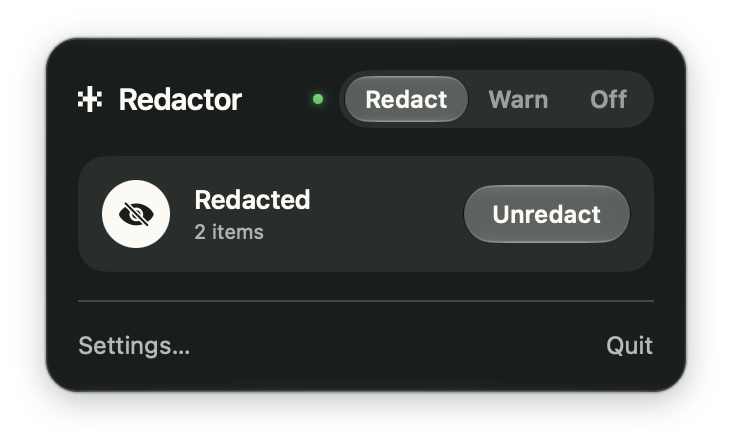
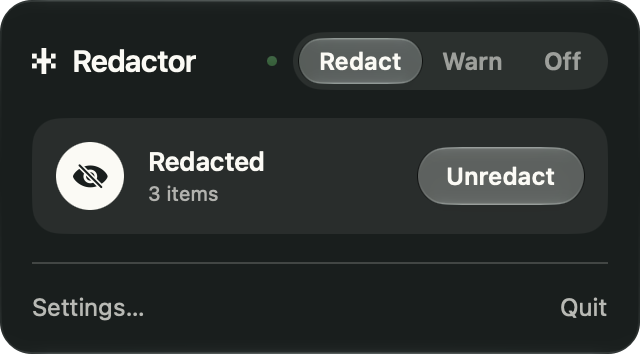
Update the menu screenshot

diff --git a/README.md b/README.md
@@ -35,7 +35,7 @@ Silicon. Redact (12MB) downloads on first launch.
 - **Copy a file** in Finder, and Redactor reads it: text, CSV, Word, PDF, and
   images. A file stays a file until you click Redact.
 
-<img src="docs/screenshots/menu.png" width="366" alt="The Redactor menu with the Redact, Warn, and Off switch">
+<img src="docs/screenshots/menu.png" width="320" alt="The Redactor menu with the Redact, Warn, and Off switch">
 
 ## Settings
 
